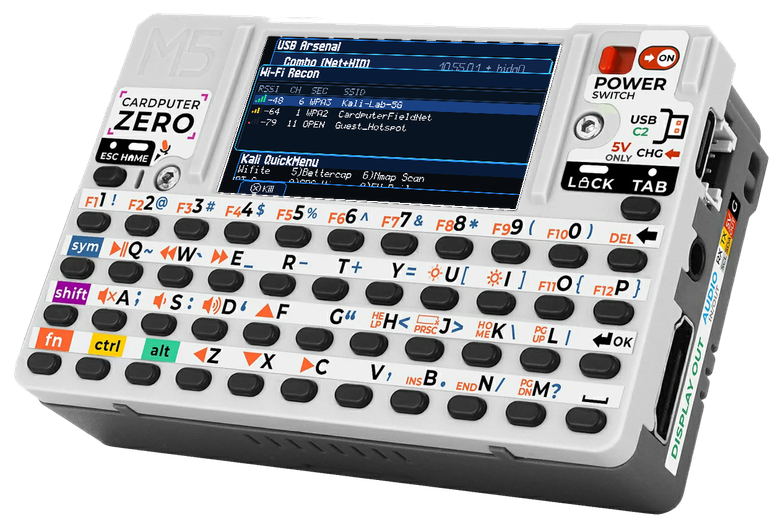
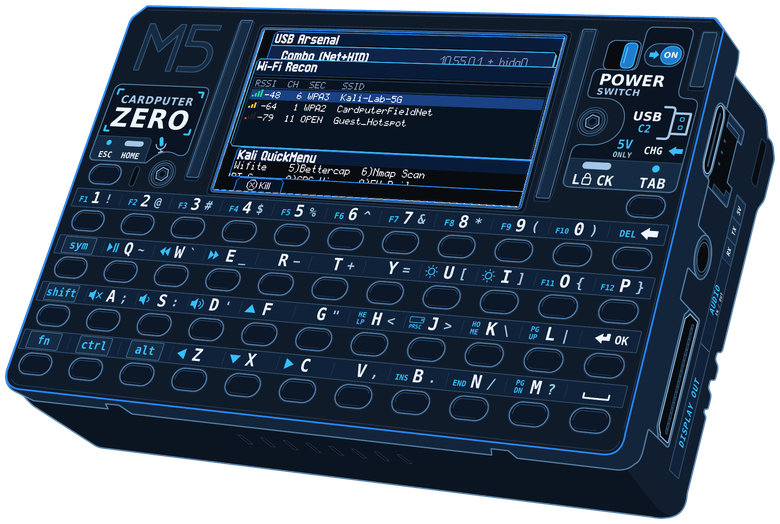
docs: update README hero GIF and angle view with Kali Dark wireframe SVGs

diff --git a/README.md b/README.md
@@ -11,7 +11,7 @@ Cyberdeck Edition brings together the best of three worlds: **[Kali Linux](https
 Instead of treating the 1.9" SPI screen as a secondary status display, the image boots straight into a native **`320x170` RGB565 DRM/KMS shell (`czctl`)** built with [Slint](https://github.com/slint-ui/slint). It pairs `czctl` with a built-in **`:8899` Browser Web KVM**, **12 hosted Wayland offensive and hardware apps**, a **[ProFont](https://tobiasjung.name/profont/) multi-zoom terminal (`cz-term`)**, and a **composite USB-C OTG Arsenal**, while keeping full M5Stack hardware and Cap support, optional [`APPLaunch`](https://github.com/CardputerZero/launcher) switching, and an on-demand HDMI LXDE desktop within ~118 MiB idle RAM.
 
 <p align="center">
-  <img src="docs/media/czctl-demo.gif" width="641" alt="Animated walkthrough of Kali Linux Cyberdeck Edition on CardputerZero" />
+  <img src="docs/media/czctl-demo.gif" width="662" alt="Animated walkthrough of Kali Linux Cyberdeck Edition on CardputerZero" />
 </p>
 
 <table>
